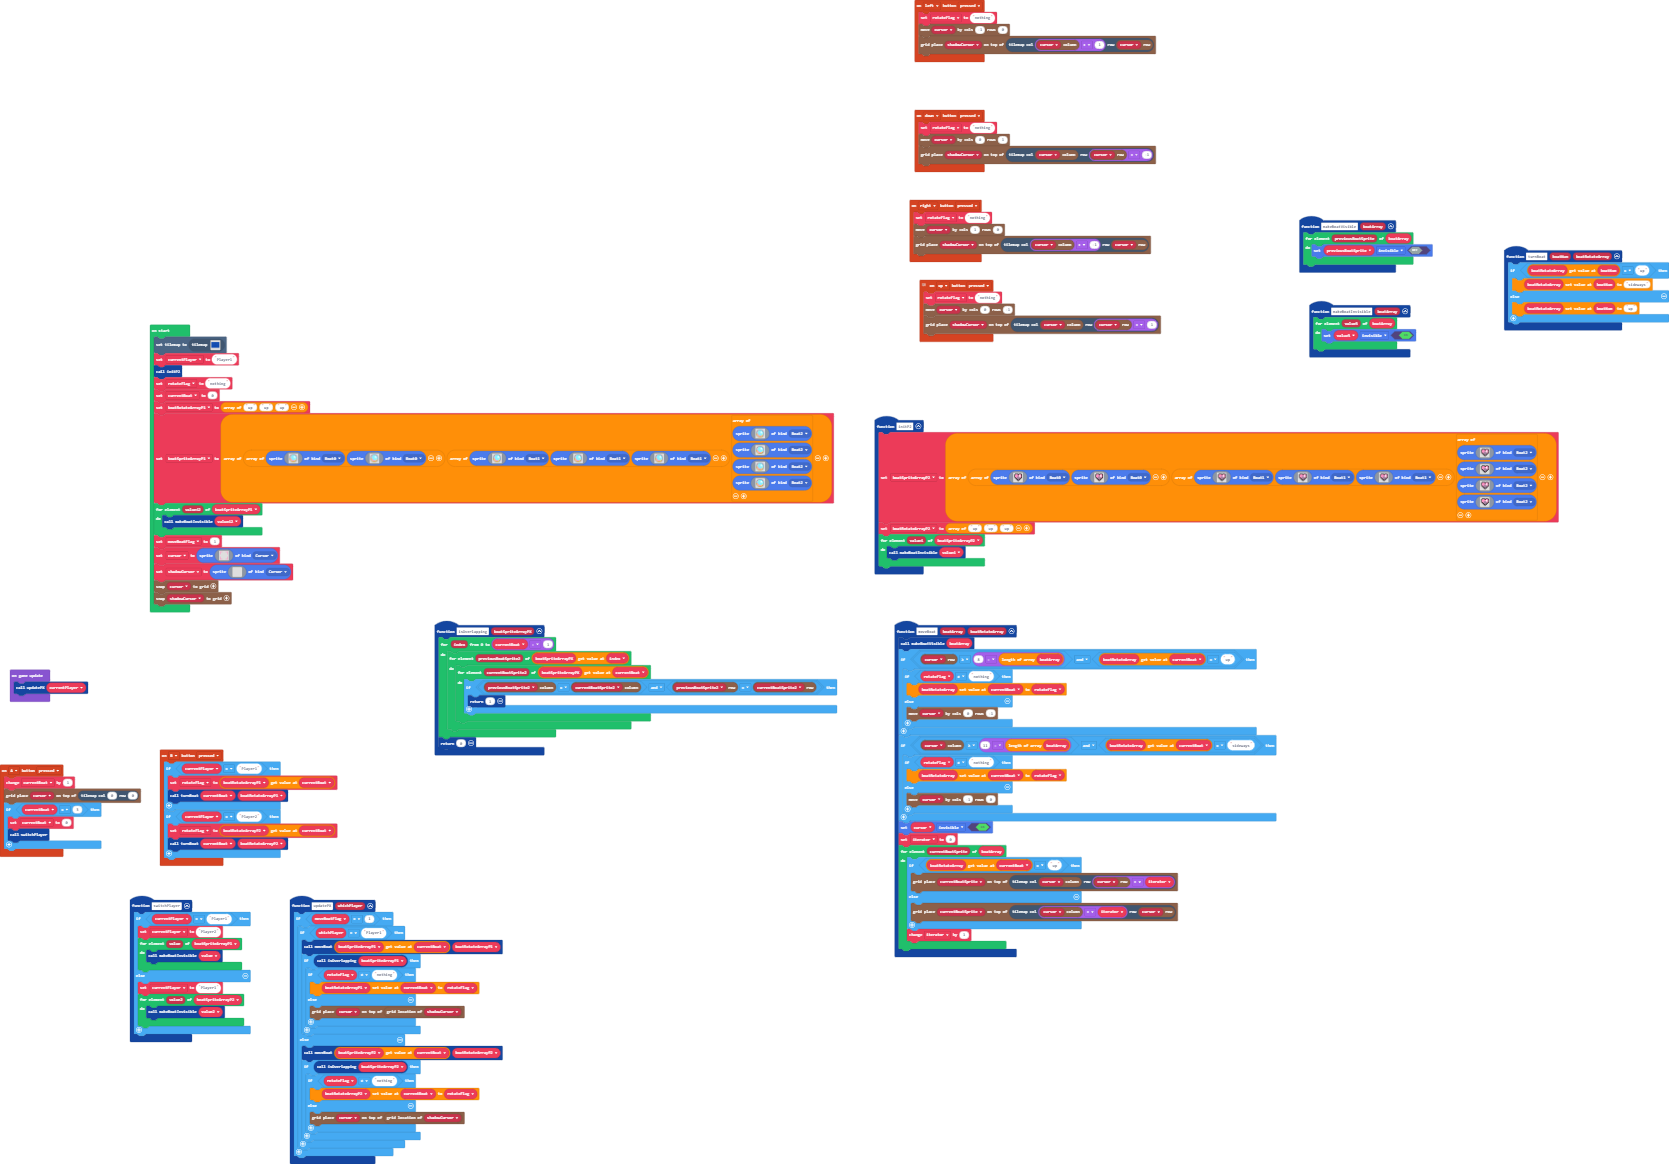
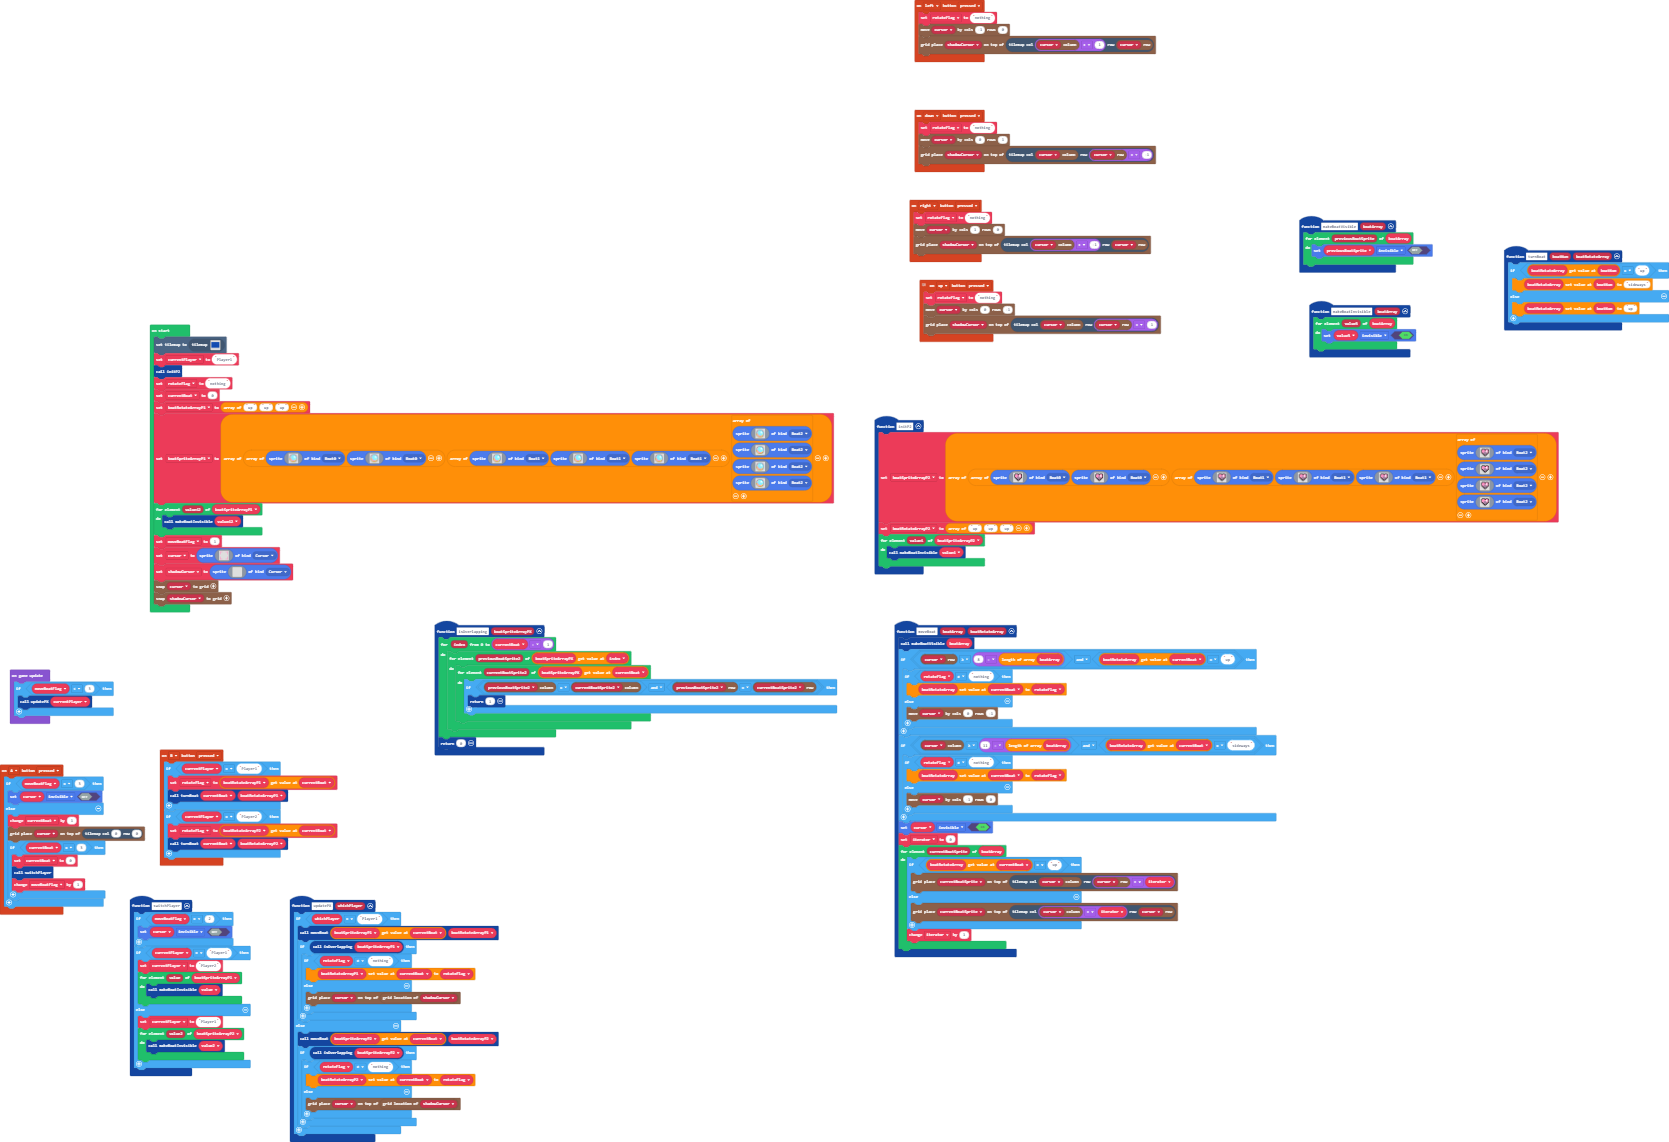
yeaaaaaaaaaaaaah

diff --git a/main.ts b/main.ts
@@ -11,24 +11,22 @@ controller.up.onEvent(ControllerButtonEvent.Pressed, function () {
     grid.place(shadowCursor, tiles.getTileLocation(grid.spriteCol(cursor), grid.spriteRow(cursor) + 1))
 })
 function updatePX (whichPlayer: string) {
-    if (moveBoatFlag == 1) {
-        if (whichPlayer == "Player1") {
-            moveBoat(boatSpriteArrayP1[currentBoat], boatRotateArrayP1)
-            if (isOverlapping(boatSpriteArrayP1)) {
-                if (rotateFlag != "nothing") {
-                    boatRotateArrayP1[currentBoat] = rotateFlag
-                } else {
-                    grid.place(cursor, grid.getLocation(shadowCursor))
-                }
+    if (whichPlayer == "Player1") {
+        moveBoat(boatSpriteArrayP1[currentBoat], boatRotateArrayP1)
+        if (isOverlapping(boatSpriteArrayP1)) {
+            if (rotateFlag != "nothing") {
+                boatRotateArrayP1[currentBoat] = rotateFlag
+            } else {
+                grid.place(cursor, grid.getLocation(shadowCursor))
             }
-        } else {
-            moveBoat(boatSpriteArrayP2[currentBoat], boatRotateArrayP2)
-            if (isOverlapping(boatSpriteArrayP2)) {
-                if (rotateFlag != "nothing") {
-                    boatRotateArrayP2[currentBoat] = rotateFlag
-                } else {
-                    grid.place(cursor, grid.getLocation(shadowCursor))
-                }
+        }
+    } else {
+        moveBoat(boatSpriteArrayP2[currentBoat], boatRotateArrayP2)
+        if (isOverlapping(boatSpriteArrayP2)) {
+            if (rotateFlag != "nothing") {
+                boatRotateArrayP2[currentBoat] = rotateFlag
+            } else {
+                grid.place(cursor, grid.getLocation(shadowCursor))
             }
         }
     }
@@ -49,11 +47,16 @@ function makeBoatVisible (boatArray: Sprite[]) {
     }
 }
 controller.A.onEvent(ControllerButtonEvent.Pressed, function () {
-    currentBoat += 1
-    grid.place(cursor, tiles.getTileLocation(0, 0))
-    if (currentBoat == 3) {
-        currentBoat = 0
-        switchPlayer()
+    if (moveBoatFlag == 3) {
+        cursor.setFlag(SpriteFlag.Invisible, false)
+    } else {
+        currentBoat += 1
+        grid.place(cursor, tiles.getTileLocation(0, 0))
+        if (currentBoat == 3) {
+            currentBoat = 0
+            switchPlayer()
+            moveBoatFlag += 1
+        }
     }
 })
 controller.left.onEvent(ControllerButtonEvent.Pressed, function () {
@@ -62,6 +65,9 @@ controller.left.onEvent(ControllerButtonEvent.Pressed, function () {
     grid.place(shadowCursor, tiles.getTileLocation(grid.spriteCol(cursor) + 1, grid.spriteRow(cursor)))
 })
 function switchPlayer () {
+    if (moveBoatFlag == 2) {
+        cursor.setFlag(SpriteFlag.Invisible, false)
+    }
     if (currentPlayer == "Player1") {
         currentPlayer = "Player2"
         for (let value of boatSpriteArrayP1) {
@@ -527,5 +533,7 @@ shadowCursor = sprites.create(img`
 grid.snap(cursor)
 grid.snap(shadowCursor)
 game.onUpdate(function () {
-    updatePX(currentPlayer)
+    if (moveBoatFlag < 3) {
+        updatePX(currentPlayer)
+    }
 })
